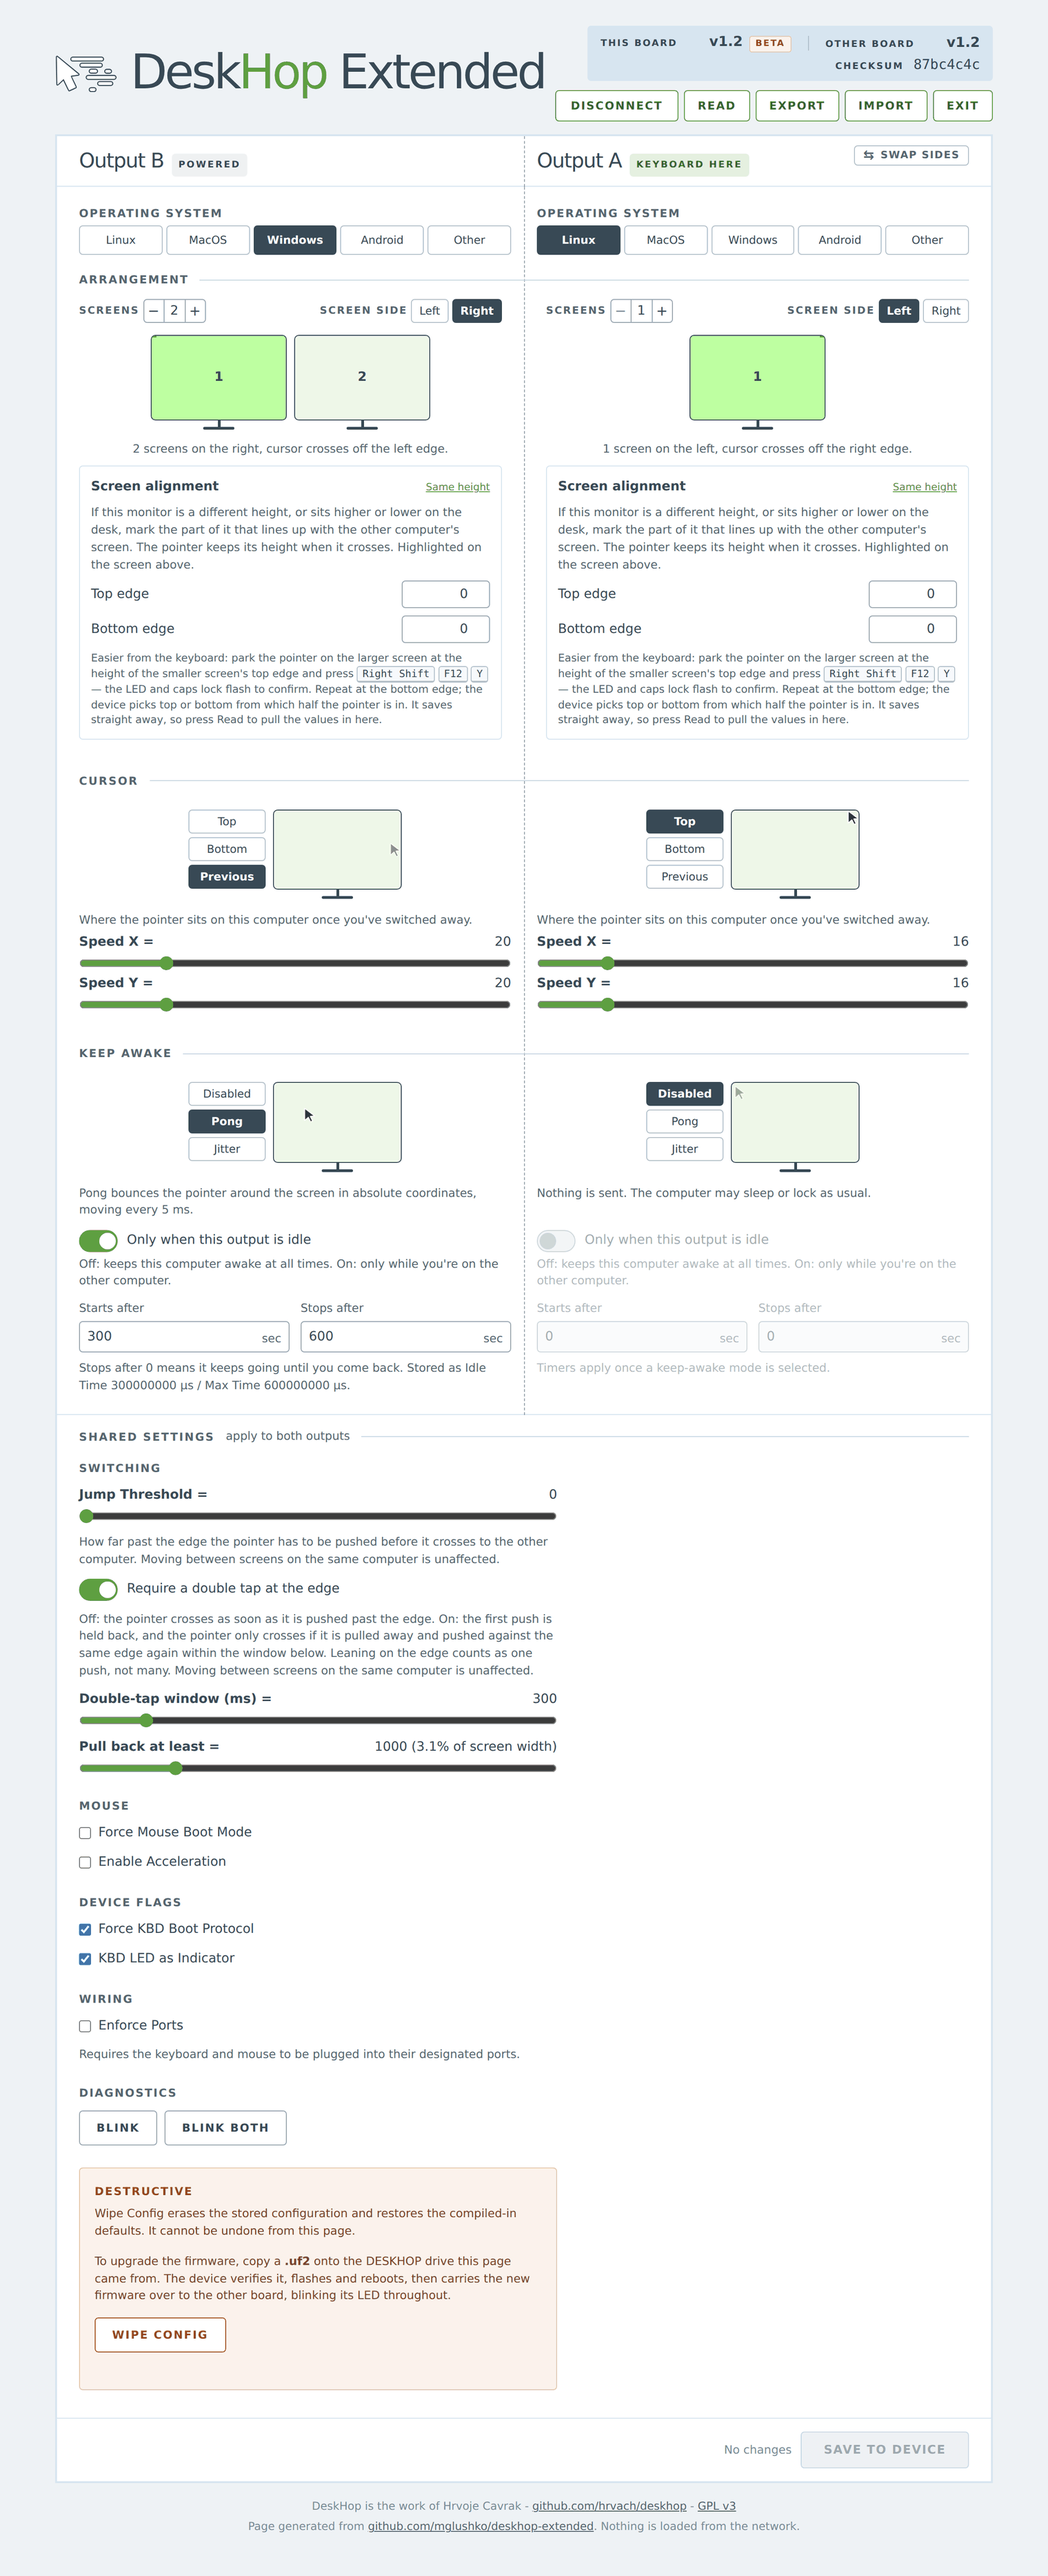
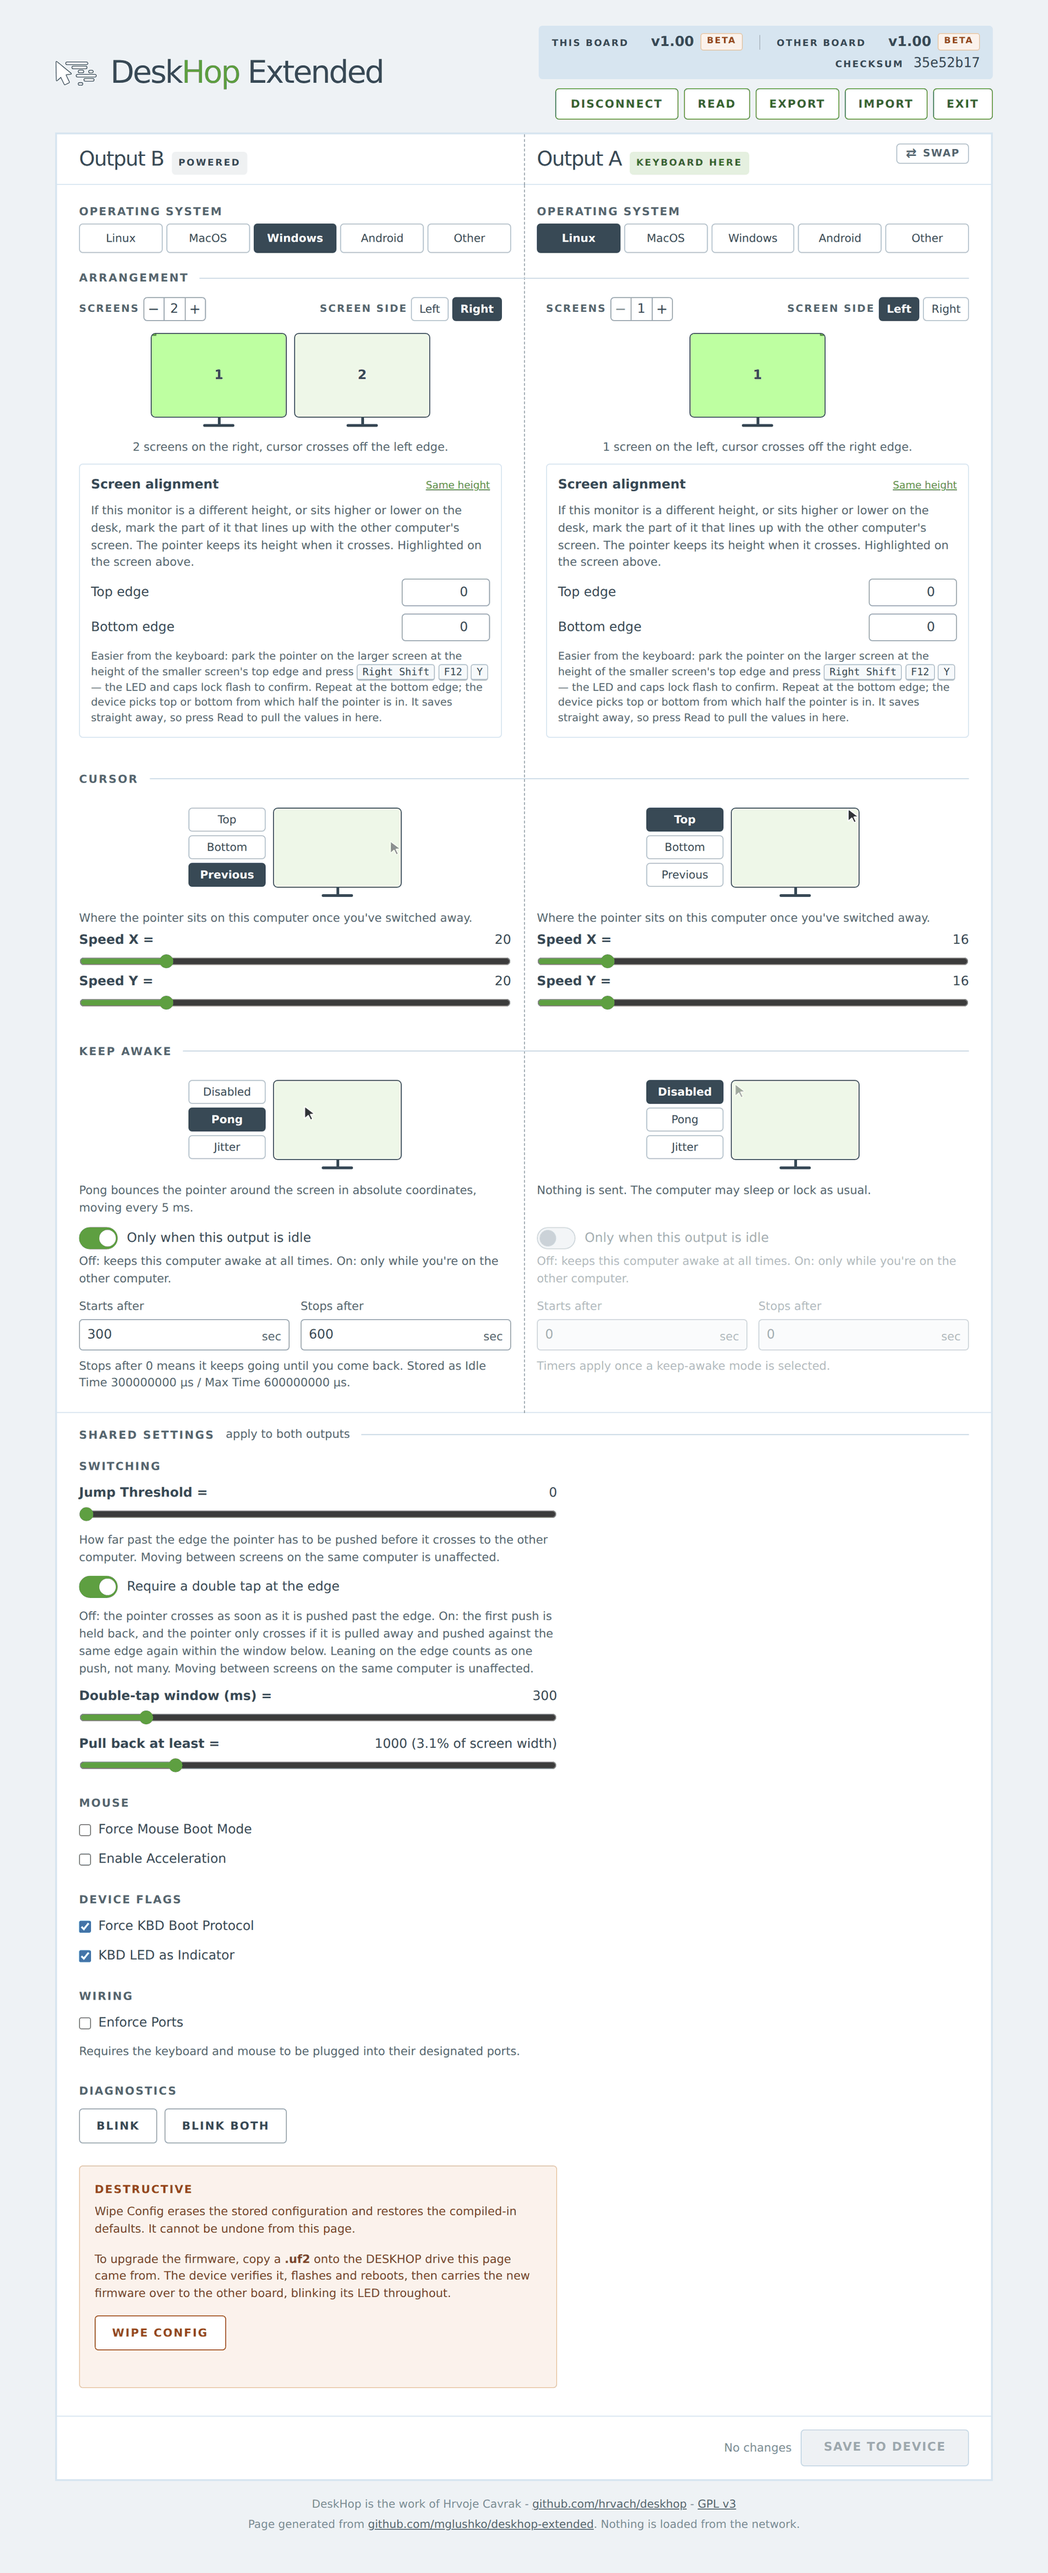
Back to 1.00, beta on both boards, smaller masthead, tighter swap
Version returns to 1.0 and stays there until asked. Minor now prints to
two digits so releases read v1.00, v1.01, v1.02; only the printed form
changes, the number the boards exchange is the same encoding as before.

The stage label sits beside both versions now rather than only the local
one, and both chips centre against the version instead of sitting on its
text baseline. The other board's chip stays hidden until that board has
actually reported in - the label is baked in from this build, so
claiming it for a board that has said nothing would be inventing it.

Logo and title come down from 52px and 68x40 to 34px and 46x27, so the
masthead stops dominating the header now that it carries two versions
and a checksum row.

Swap keeps its place at the top right of the card, next to the columns
it affects, and reads as opposing arrows plus SWAP.

Worth being explicit about the consequence of the version going down:
1.00 is lower than the 1.1 already on the boards, so this one cannot
arrive over the link - a board only pulls firmware that reports a higher
number. It has to go on each board through the on-board button with the
other one unplugged, or the board still running 1.1 will push it back.
Recorded in the README next to the numbering rule.

diff --git a/webconfig/config.htm b/webconfig/config.htm
@@ -1,1 +1,1 @@
[2 lines of base64/hex data omitted]

diff --git a/webconfig/config-unpacked.htm b/webconfig/config-unpacked.htm
@@ -75,8 +75,8 @@ input[type=range][disabled] { accent-color: var(--grey); cursor: default; }
 
 .hdr { display: flex; align-items: center; justify-content: space-between; gap: 8px; margin-bottom: 14px; }
 .brand { display: flex; align-items: center; gap: 14px; }
-.logo { width: 68px; height: 40px; align-self: center; stroke: var(--fg); stroke-width: 1px; fill: #fff; }
-.title { margin: 0; white-space: nowrap; font-size: 52px; font-weight: 300; line-height: 1.3; letter-spacing: -.18rem; }
+.logo { width: 46px; height: 27px; align-self: center; stroke: var(--fg); stroke-width: 1px; fill: #fff; }
+.title { margin: 0; white-space: nowrap; font-size: 34px; font-weight: 300; line-height: 1.3; letter-spacing: -.11rem; }
 .title span { color: var(--accent); }
 
 .hdr-r { display: flex; flex-direction: column; align-items: flex-end; gap: 10px; margin-left: auto; }
@@ -98,6 +98,7 @@ input[type=range][disabled] { accent-color: var(--grey); cursor: default; }
   padding: 1px 6px; border: 1px solid var(--warn-bd); border-radius: 3px;
   background: var(--warn-bg); color: var(--warn-fg);
   font-size: 9.5px; font-weight: 700; letter-spacing: .08rem; text-transform: uppercase;
+  align-self: center;
 }
 .meta-warn { border-color: var(--danger); color: var(--danger); background: #fff; }
 
@@ -405,6 +406,7 @@ input[type=range][disabled] { accent-color: var(--grey); cursor: default; }
           <span class="meta-i">
             <span class="meta-k">Other board</span>
             <input class="api meta-v" type="text" id="k86" data-key="86" data-type="uint16" fetched-value="" onchange="valueChangedHandler(this)" data-fw-ver readonly>
+            <span class="meta-tag" id="other-tag" hidden>beta</span>
             <span class="meta-tag meta-warn" id="ver-differ" hidden>differ</span>
           </span>
         </div>
@@ -458,7 +460,7 @@ input[type=range][disabled] { accent-color: var(--grey); cursor: default; }
       <div class="obar">
         <button type="button" class="swap" data-for="k87"
                 title="Draw the outputs the other way round, to match how they sit on your desk">
-          <span class="swap-i" aria-hidden="true">&#8646;</span> Swap sides
+          <span class="swap-i" aria-hidden="true">&#8644;</span> Swap
         </button><input class="api " type="hidden" id="k87" data-key="87" data-type="uint8" fetched-value="" onchange="valueChangedHandler(this)" >
         <div class="duo">
           <div class="out">
@@ -989,13 +991,16 @@ function packValue(element, key, dataType, buffer) {
   return new Uint8Array(buffer);
 }
 
-/* u16 version = major * 1000 + minor + 100. Zero means nothing has been heard from that
-   board - for the other one that is an unpowered board or a link that is down. */
+/* u16 version = major * 1000 + minor + 100. Minor prints to two digits, so releases read
+   v1.00, v1.01, v1.02. Zero means nothing has been heard from that board - for the other
+   one that is an unpowered board or a link that is down. */
 function formatFwVersion(value) {
   if (!value)
     return '—';
 
-  return `v${Math.floor((value - 100) / 1000)}.${(value - 100) % 1000}`;
+  const minor = String((value - 100) % 1000).padStart(2, '0');
+
+  return `v${Math.floor((value - 100) / 1000)}.${minor}`;
 }
 
 function getValue(element) {
@@ -1550,8 +1555,14 @@ function refreshVersions() {
   const self = document.querySelector('[data-fw-self]');
   const other = document.querySelector('[data-fw-ver]:not([data-fw-self])');
   const known = other && other.value && other.value !== '—';
+  const tag = el('other-tag');
 
   el('ver-differ').hidden = !(known && self && self.value !== other.value);
+
+  /* The stage label is baked in from this build, so only claim it for the other board
+     once that board has actually reported a version. */
+  if (tag)
+    tag.hidden = !known;
 }
 
 function refreshOutput(output) {

diff --git a/webconfig/templates/script.js b/webconfig/templates/script.js
@@ -73,13 +73,16 @@ function packValue(element, key, dataType, buffer) {
   return new Uint8Array(buffer);
 }
 
-/* u16 version = major * 1000 + minor + 100. Zero means nothing has been heard from that
-   board - for the other one that is an unpowered board or a link that is down. */
+/* u16 version = major * 1000 + minor + 100. Minor prints to two digits, so releases read
+   v1.00, v1.01, v1.02. Zero means nothing has been heard from that board - for the other
+   one that is an unpowered board or a link that is down. */
 function formatFwVersion(value) {
   if (!value)
     return '—';
 
-  return `v${Math.floor((value - 100) / 1000)}.${(value - 100) % 1000}`;
+  const minor = String((value - 100) % 1000).padStart(2, '0');
+
+  return `v${Math.floor((value - 100) / 1000)}.${minor}`;
 }
 
 function getValue(element) {
@@ -634,8 +637,14 @@ function refreshVersions() {
   const self = document.querySelector('[data-fw-self]');
   const other = document.querySelector('[data-fw-ver]:not([data-fw-self])');
   const known = other && other.value && other.value !== '—';
+  const tag = el('other-tag');
 
   el('ver-differ').hidden = !(known && self && self.value !== other.value);
+
+  /* The stage label is baked in from this build, so only claim it for the other board
+     once that board has actually reported a version. */
+  if (tag)
+    tag.hidden = !known;
 }
 
 function refreshOutput(output) {

diff --git a/webconfig/templates/style.css b/webconfig/templates/style.css
@@ -44,8 +44,8 @@ input[type=range][disabled] { accent-color: var(--grey); cursor: default; }
 
 .hdr { display: flex; align-items: center; justify-content: space-between; gap: 8px; margin-bottom: 14px; }
 .brand { display: flex; align-items: center; gap: 14px; }
-.logo { width: 68px; height: 40px; align-self: center; stroke: var(--fg); stroke-width: 1px; fill: #fff; }
-.title { margin: 0; white-space: nowrap; font-size: 52px; font-weight: 300; line-height: 1.3; letter-spacing: -.18rem; }
+.logo { width: 46px; height: 27px; align-self: center; stroke: var(--fg); stroke-width: 1px; fill: #fff; }
+.title { margin: 0; white-space: nowrap; font-size: 34px; font-weight: 300; line-height: 1.3; letter-spacing: -.11rem; }
 .title span { color: var(--accent); }
 
 .hdr-r { display: flex; flex-direction: column; align-items: flex-end; gap: 10px; margin-left: auto; }
@@ -67,6 +67,7 @@ input[type=range][disabled] { accent-color: var(--grey); cursor: default; }
   padding: 1px 6px; border: 1px solid var(--warn-bd); border-radius: 3px;
   background: var(--warn-bg); color: var(--warn-fg);
   font-size: 9.5px; font-weight: 700; letter-spacing: .08rem; text-transform: uppercase;
+  align-self: center;
 }
 .meta-warn { border-color: var(--danger); color: var(--danger); background: #fff; }
 

diff --git a/webconfig/templates/main.html b/webconfig/templates/main.html
@@ -110,6 +110,9 @@
           <span class="meta-i">
             <span class="meta-k">Other board</span>
             {{ api(S['Other board FW version'], type='text', extra='data-fw-ver readonly', cls='meta-v') }}
+            {%- if build.suffix %}
+            <span class="meta-tag" id="other-tag" hidden>{{ build.suffix }}</span>
+            {%- endif %}
             <span class="meta-tag meta-warn" id="ver-differ" hidden>differ</span>
           </span>
         </div>
@@ -163,7 +166,7 @@
       <div class="obar">
         <button type="button" class="swap" data-for="k{{ C['Swap Columns'].key }}"
                 title="Draw the outputs the other way round, to match how they sit on your desk">
-          <span class="swap-i" aria-hidden="true">&#8646;</span> Swap sides
+          <span class="swap-i" aria-hidden="true">&#8644;</span> Swap
         </button>
         {{- api(C['Swap Columns']) }}
         <div class="duo">

diff --git a/misc/test-config-backup.py b/misc/test-config-backup.py
@@ -147,17 +147,17 @@ with sync_playwright() as p:
             setValue(document.querySelector('[data-fw-ver]:not([data-fw-self])'), formatFwVersion(b));
         }""", [local, other])
 
-    show_versions(1102, 1102)
+    show_versions(1100, 1100)
     shown = page.evaluate("() => [...document.querySelectorAll('[data-fw-ver]')].map(e => e.value)")
-    check("both version fields format from the raw uint16", shown == ["v1.2", "v1.2"], shown)
+    check("both version fields format from the raw uint16", shown == ["v1.00", "v1.00"], shown)
     check("matching versions raise no warning",
           page.eval_on_selector("#ver-differ", "e => e.hidden"))
 
-    show_versions(1102, 1101)
+    show_versions(1100, 1101)
     check("differing versions are flagged",
           page.eval_on_selector("#ver-differ", "e => !e.hidden"))
 
-    show_versions(1102, 0)
+    show_versions(1100, 0)
     other_val = page.eval_on_selector("[data-fw-ver]:not([data-fw-self])", "e => e.value")
     check("a board that never reported shows a dash", other_val == "—", other_val)
     check("a board that never reported is not a mismatch",

diff --git a/misc/shoot-config-page.py b/misc/shoot-config-page.py
@@ -77,7 +77,7 @@ def firmware_version() -> str:
     cmake = (REPO / "CMakeLists.txt").read_text()
     major = re.search(r"set\(VERSION_MAJOR (\d+)\)", cmake).group(1)
     minor = re.search(r"set\(VERSION_MINOR (\d+)\)", cmake).group(1)
-    return f"v{major}.{minor}"
+    return f"v{major}.{int(minor):02d}"
 
 
 def firmware_checksum() -> str:

diff --git a/README.md b/README.md
@@ -24,6 +24,12 @@ upstream's 0.x - and the config page marks it **beta**. It is a small project's 
 release, so treat it as one. The current version is whatever `CMakeLists.txt` says; the
 config page shows it, and the board reports it over the link.
 
+Minor numbers read to two digits - v1.00, v1.01, v1.02 - and only the printed form is
+padded; the version the boards exchange is the same `major * 1000 + minor + 100` as ever.
+Note that a board only accepts firmware from the other one when that board reports a
+*higher* number, so installing a lower version than the pair is already running means
+flashing each board over its on-board button with the other unplugged.
+
 The number is deliberately above upstream's, and not only for labelling: a board pulls
 firmware from the other one when the other reports a *higher* version
 (`handle_heartbeat_msg`), so being above upstream is what lets you flash one board and have
